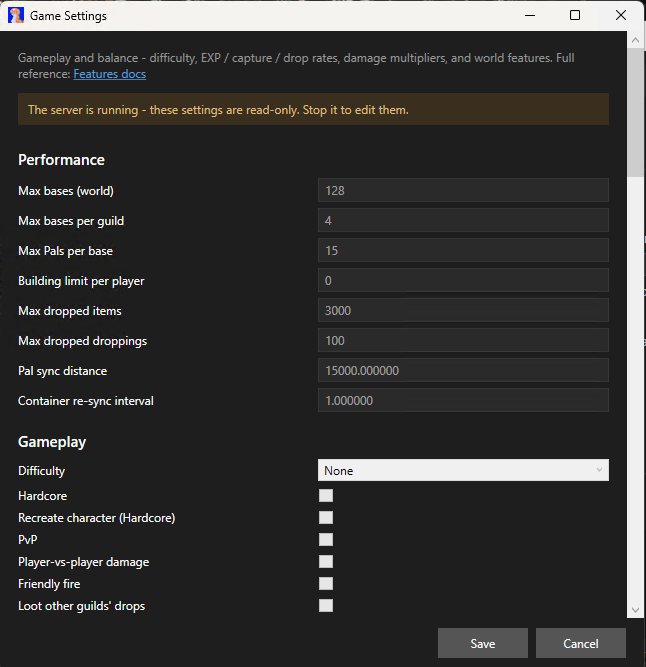
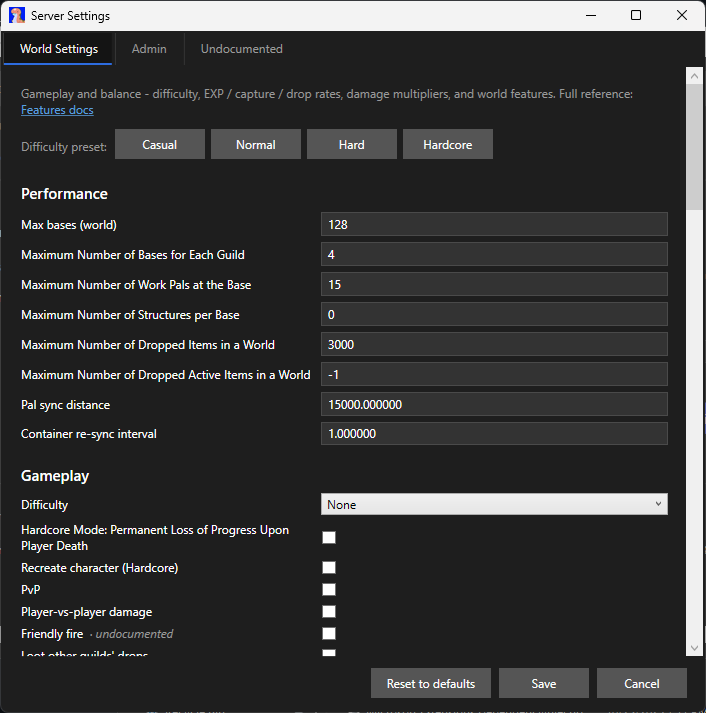
Add CHANGELOG and refresh the README for the new settings editor
CHANGELOG.md lists the headline user-facing changes: 1.0 support, the
tabbed Server Settings window, difficulty presets, save confirmation,
the Undocumented tab, and the action-button icons. The README's settings
section now describes the tabbed editor and difficulty presets, points
at the Server Settings entry instead of the old tab names, and includes
a difficulty-preset screenshot. Also refreshes the game-settings and
main-window screenshots for the new UI.

diff --git a/CHANGELOG.md b/CHANGELOG.md
@@ -1,0 +1,41 @@
+# Changelog
+
+Notable, user-facing changes to the Palworld Server Launcher. Headline features and fixes, not every commit.
+
+## [Unreleased]
+
+### Added
+- **Palworld 1.0 support.** The settings editor now covers every 1.0 setting, including the new voice-chat,
+  dropped-item-physics, and guild-ownership-transfer options.
+- **Difficulty presets.** One click applies a Casual, Normal, Hard, or Hardcore set of values in the World
+  Settings tab. It previews exactly what will change first, and switching presets always lands on a clean
+  configuration.
+- **Save confirmation.** Before writing `PalWorldSettings.ini`, the editor shows exactly which settings will
+  change, and records each change in the log.
+- **Undocumented Settings tab.** Settings the official docs don't cover are grouped here with the launcher's
+  best guess, so the main tabs stay trustworthy. Anything a future game update adds shows up here too.
+
+### Changed
+- **One tabbed Server Settings window.** The separate Game, Admin, and New Settings buttons are now a single
+  Server Settings dialog with World Settings, Admin, and Undocumented tabs.
+- **Settings use the game's own wording.** Labels match what you see in-game under Edit World Settings, and
+  the real in-file name is in each tooltip.
+- **Start / Stop / Restart are icons now** (a play triangle, a square, and a circular arrow), so the action
+  buttons take less space.
+- The **Difficulty** setting now warns that it has no effect on a dedicated server (it is a client /
+  single-player setting).
+
+### Fixed
+- The **REST API enabled** setting no longer shows a misleading "reset to default" next to it while it is on,
+  and a bulk "Reset to defaults" no longer turns it off.
+
+## [0.1.0]
+
+First public pre-release.
+
+- Installs and auto-updates the dedicated server via SteamCMD.
+- Scheduled restarts with in-game warnings, plus crash and zombie recovery.
+- Scheduled and on-demand world backups.
+- Live health and player monitoring over Palworld's REST API.
+- A settings editor for `PalWorldSettings.ini` and the launch arguments.
+- Optional Discord webhook notifications and a slash-command control bot.

diff --git a/README.md b/README.md
@@ -49,16 +49,19 @@ inspired by [Conan Exile's Dediciated Server Launcher](https://forums.funcom.com
 - Players joining and leaving show up in the log as they happen.
 
 ### Settings
-- A full editor for Palworld's `PalWorldSettings.ini`. Every setting is there, labeled in plain language,
-  with its real in-file name and a short note on what it does. The launcher only lets you change settings
-  while the server is stopped, only writes the ones you actually touched, and leaves everything else exactly
-  as it was.
-- Passwords are hidden behind a **show/hide** button, so the admin password the launcher generates for you
-  is still there to read when you need it.
-- A **New Settings** tab catches anything the launcher doesn't recognize, like a setting a future game update
-  adds, so you can still edit it by hand. Most of the time it sits empty.
+- A full editor for Palworld's `PalWorldSettings.ini`, opened as one **Server Settings** window with tabs:
+  **World Settings** (gameplay and balance), **Admin** (server management), and **Undocumented**. Every
+  setting is there, labeled with the game's own in-game wording where it has one, and each tooltip shows the
+  real in-file name plus a short note. The launcher only lets you change settings while the server is stopped,
+  only writes the ones you actually touched, and shows you exactly what will change before it saves.
+- **Difficulty presets.** One click applies a Casual, Normal, Hard, or Hardcore set of values (as of Palworld
+  1.0). It previews what will change first, and switching presets always lands on a clean configuration.
+- **Passwords** are hidden behind a show/hide button, so the admin password the launcher generates for you is
+  still there to read when you need it.
+- The **Undocumented** tab holds the settings the official docs don't cover (with the launcher's best guess in
+  each tooltip), plus anything a future game update adds that the launcher doesn't recognize yet.
 - A **Launch Arguments** editor with a live preview of the exact command line the server will start with.
-- An **Advanced** tab for low-level process tuning. Set the server's Windows **priority** and pin it to
+- An **Advanced** section for low-level process tuning. Set the server's Windows **priority** and pin it to
   specific **CPU cores** (Unreal resets the affinity on launch, so the launcher quietly re-applies yours).
   Handy if you like to squeeze out performance.
 - The launcher never slips in a third-party `Engine.ini`. Your server runs on its own defaults.
@@ -85,9 +88,13 @@ inspired by [Conan Exile's Dediciated Server Launcher](https://forums.funcom.com
 
 ## Screenshots
 
-**The settings editor.** Every `PalWorldSettings.ini` value, grouped and labeled in plain language.
+**The settings editor.** One tabbed window for every `PalWorldSettings.ini` value, labeled with the game's own wording.
 
 ![Game settings editor](docs/images/app-screenshots/game-settings.png)
+
+**Difficulty presets.** Apply a Casual / Normal / Hard / Hardcore set of values, with a preview of exactly what changes.
+
+![Difficulty presets](docs/images/app-screenshots/difficulty-preset.png)
 
 **Launch arguments**, with a live preview of the exact command line.
 
@@ -133,8 +140,8 @@ inspired by [Conan Exile's Dediciated Server Launcher](https://forums.funcom.com
 - The launcher's own settings sit in `launcher.json`, inside a `PalworldServerLauncher` folder next to the
   exe. That folder also holds the server install, your backups, and the logs. You edit these settings right
   in the app.
-- The game's settings live in Palworld's `PalWorldSettings.ini`. Edit them from the launcher (Game, Admin,
-  New Settings, and Launch Arguments) or by hand in the file.
+- The game's settings live in Palworld's `PalWorldSettings.ini`. Edit them from the launcher (Server Settings
+  and Launch Arguments) or by hand in the file.
 
 ## Running more than one server
 